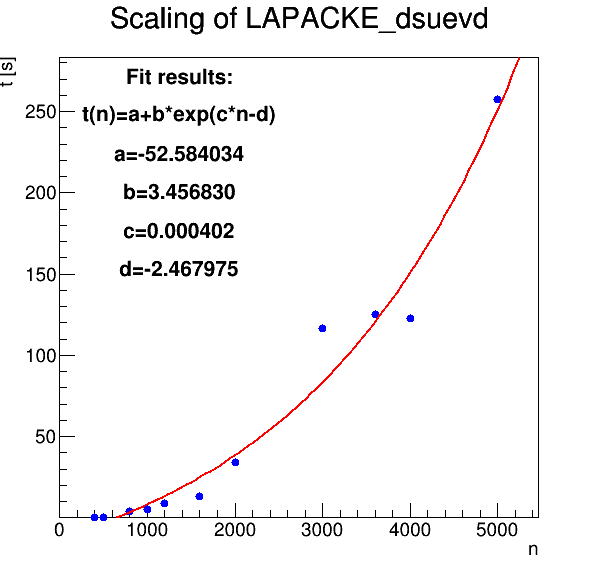
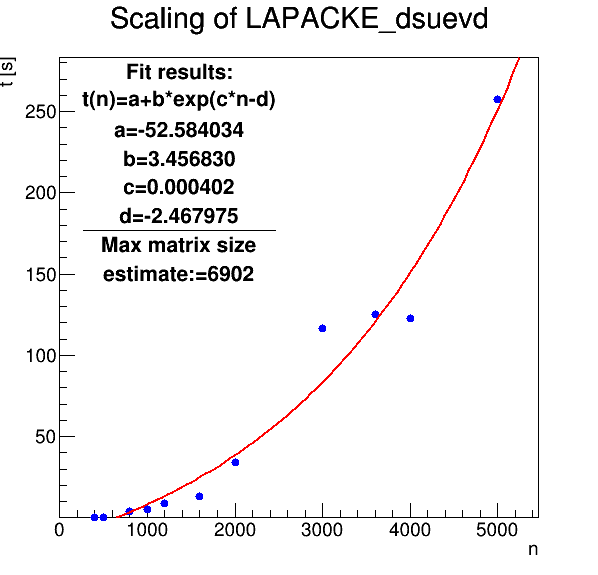
Finish task 6

Changed region(s): [[0.1204, 0.0887, 0.4816, 0.5026]]

diff --git a/lab07/plot.C b/lab07/plot.C
@@ -28,13 +28,14 @@ void plot(double omega = 0.001){
   legend->SetNColumns(5);
   int n = 0;
   int nCorrect = 0;
+  double epsilon = 0.0001;
   std::cout<<"Compare Eigenvalues"<<std::endl;
   std::cout<<" Numerical  | Analytical | difference"<<std::endl;
   std::cout<<"_____________________________________"<<std::endl;
   while(fValues>>eigenvalue){
     double En = omega *(n + 0.5);
     double error = TMath::Abs(En - eigenvalue);
-    if(error<0.0001) nCorrect++;
+    if(error<epsilon) nCorrect++;
     int points = 0;
     
     if(n<5){
@@ -59,7 +60,7 @@ void plot(double omega = 0.001){
     
     n++;  
   }
-  std::cout<<"Calculated "<<nCorrect<<" eigenvalues that were closer than 0.001"<<std::endl;
+  std::cout<<"Calculated "<<nCorrect<<" eigenvalues that were closer than "<<epsilon<<std::endl;
 
   TCanvas* c = new TCanvas("c", "Canva", 10, 10, w, h);
   c->DrawFrame(0,-0.3, N, 0.3);
@@ -102,8 +103,11 @@ void time(){
   pt->AddText(Form("b=%lf",fun->GetParameter(1)));
   pt->AddText(Form("c=%lf",fun->GetParameter(2)));
   pt->AddText(Form("d=%lf",fun->GetParameter(3)));
-  pt->Draw();
   double predict = fun->GetX(10*60); // value for 10 mins
+  pt->AddLine(0.1,0.25,.9,0.25);
+  pt->AddText("Max matrix size");
+  pt->AddText(Form("estimate:=%.0f",TMath::Floor(predict)));
   std::cout<<"Max matrix size estimate:"<<TMath::Floor(predict)<<std::endl;
+  pt->Draw();
   c->SaveAs("scaling.png");
 }
